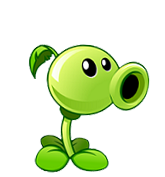
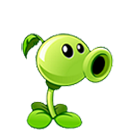
adjust position bullet to fit the row

diff --git a/HCMIU_PlantsAndZombies-master/src/GUI/Play.java b/HCMIU_PlantsAndZombies-master/src/GUI/Play.java
@@ -21,23 +21,32 @@ public class Play extends BasicGameState
 	public void init(GameContainer gc, StateBasedGame sbg ) throws SlickException
 	{
 		 small = new Image ("res/s.png");
-		 background=new Image("res/bgr.png");
+		 background=new Image("res/Night.png");
 		 bullet=new Image("res/Pea.png");
-		 
-		/* music = new Music("res/Play/07_The_Dark_Place.ogg");
+		 //while (enterState(1)) {
+		 music = new Music("res/Play/07_The_Dark_Place.ogg");
 		 music.setVolume(0.3f);
-		 music.loop();*/
+		 music.loop();
+		 //}
 	}
 	
+	private boolean enterState(int i) {
+		// TODO Auto-generated method stub
+		return false;
+	}
+
+
 	public void render (GameContainer gc, StateBasedGame sbg, Graphics g) throws SlickException
 	{
 		g.drawImage(background, 0,0);                      //draw background
 		//g.drawString("this is the game state", 50, 50);
-		g.drawImage(small,shooter.xPos,shooter.yPos);      // draw plant shooter
+		g.drawImage(small,shooter.xPos+40,shooter.yPos);      // draw plant shooter
+		
 		controller.render(g,bullet);                     // draw bullets
 		
 		g.setColor(Color.red);
-		g.fillRect(zombie.xPos, zombie.yPos, 30, 40);    //draw zombies
+		 
+		//g.fillRect(zombie.xPos, zombie.yPos, 30, 40);    //draw zombies
 		
 	}
 	public void update (GameContainer gc, StateBasedGame sbg, int delta) throws SlickException

diff --git a/HCMIU_PlantsAndZombies-master/src/GUI/Main.java b/HCMIU_PlantsAndZombies-master/src/GUI/Main.java
@@ -8,6 +8,8 @@ public class Main extends StateBasedGame {
 	public static final String gamename = "Plants vs Zombies";
 	public static final int menu = 0;
 	public static final int play = 1;
+	public static final int pause = 2;
+	public static final int gameover = 3;
 	public static int HEIGHT=768;
 	public static int WIDTH=1024;
 	
@@ -15,6 +17,8 @@ public class Main extends StateBasedGame {
 		super(gamename);
 		this.addState(new Menu(menu));
 		this.addState(new Play(play));
+//		this.addState(new Pause(pause));
+	//	this.addState(new Gameover(gameover));
 	}
 	
 	public void initStatesList(GameContainer gc) throws SlickException {

diff --git a/HCMIU_PlantsAndZombies-master/src/GUI/Gameover.java b/HCMIU_PlantsAndZombies-master/src/GUI/Gameover.java
@@ -3,11 +3,14 @@ package GUI;
 import org.newdawn.slick.*;
 import org.newdawn.slick.state.*;
 public class Gameover {
+	Image gameover;
+	private Music music;
 	public Gameover(int state){
 	}
-
+	
 	public void init(GameContainer gc, StateBasedGame sbg) throws SlickException{
 	    //what should I put here?
+//		Gameover = new Image()
 	}
 
 	public void render(GameContainer gc, StateBasedGame sbg, Graphics g) throws SlickException{
@@ -23,6 +26,6 @@ public class Gameover {
 	}
 
 	public int getID(){
-	    return 3;
+	    return 4;
 	}
 }

diff --git a/HCMIU_PlantsAndZombies-master/src/Characters/Bullet.java b/HCMIU_PlantsAndZombies-master/src/Characters/Bullet.java
@@ -32,7 +32,7 @@ public class Bullet{
 	
 	public void draw(Graphics g, Image png)                  // load image
 	{
-		g.drawImage(png,(int) this.xPos,(int)this.yPos);
+		g.drawImage(png,(int) this.xPos+20,(int)this.yPos+34);
 		//g.setColor(Color.blue);
 		//g.fillOval(this.xPos, this.yPos, this.dX, this.dY);
 	}

diff --git a/HCMIU_PlantsAndZombies-master/src/GUI/Menu.java b/HCMIU_PlantsAndZombies-master/src/GUI/Menu.java
@@ -52,6 +52,8 @@ public class Menu extends BasicGameState {
 		//Exit button
 		if ((xpos>=430 && xpos<500) && (ypos >=380 && ypos <430)){
 			if ((input.isMouseButtonDown(0))){
+			//	Thread.sleep(6);
+				
 				/*try        
 				{
 				    Thread.sleep(1000);

diff --git a/HCMIU_PlantsAndZombies-master/src/Characters/BulletsControl.java b/HCMIU_PlantsAndZombies-master/src/Characters/BulletsControl.java
@@ -33,6 +33,7 @@ public class BulletsControl {
 		{
 			tempBullet=bullets.get(i);
 			tempBullet.draw(g,png);
+			//tempBullet.dr
 		}
 	}
 	
